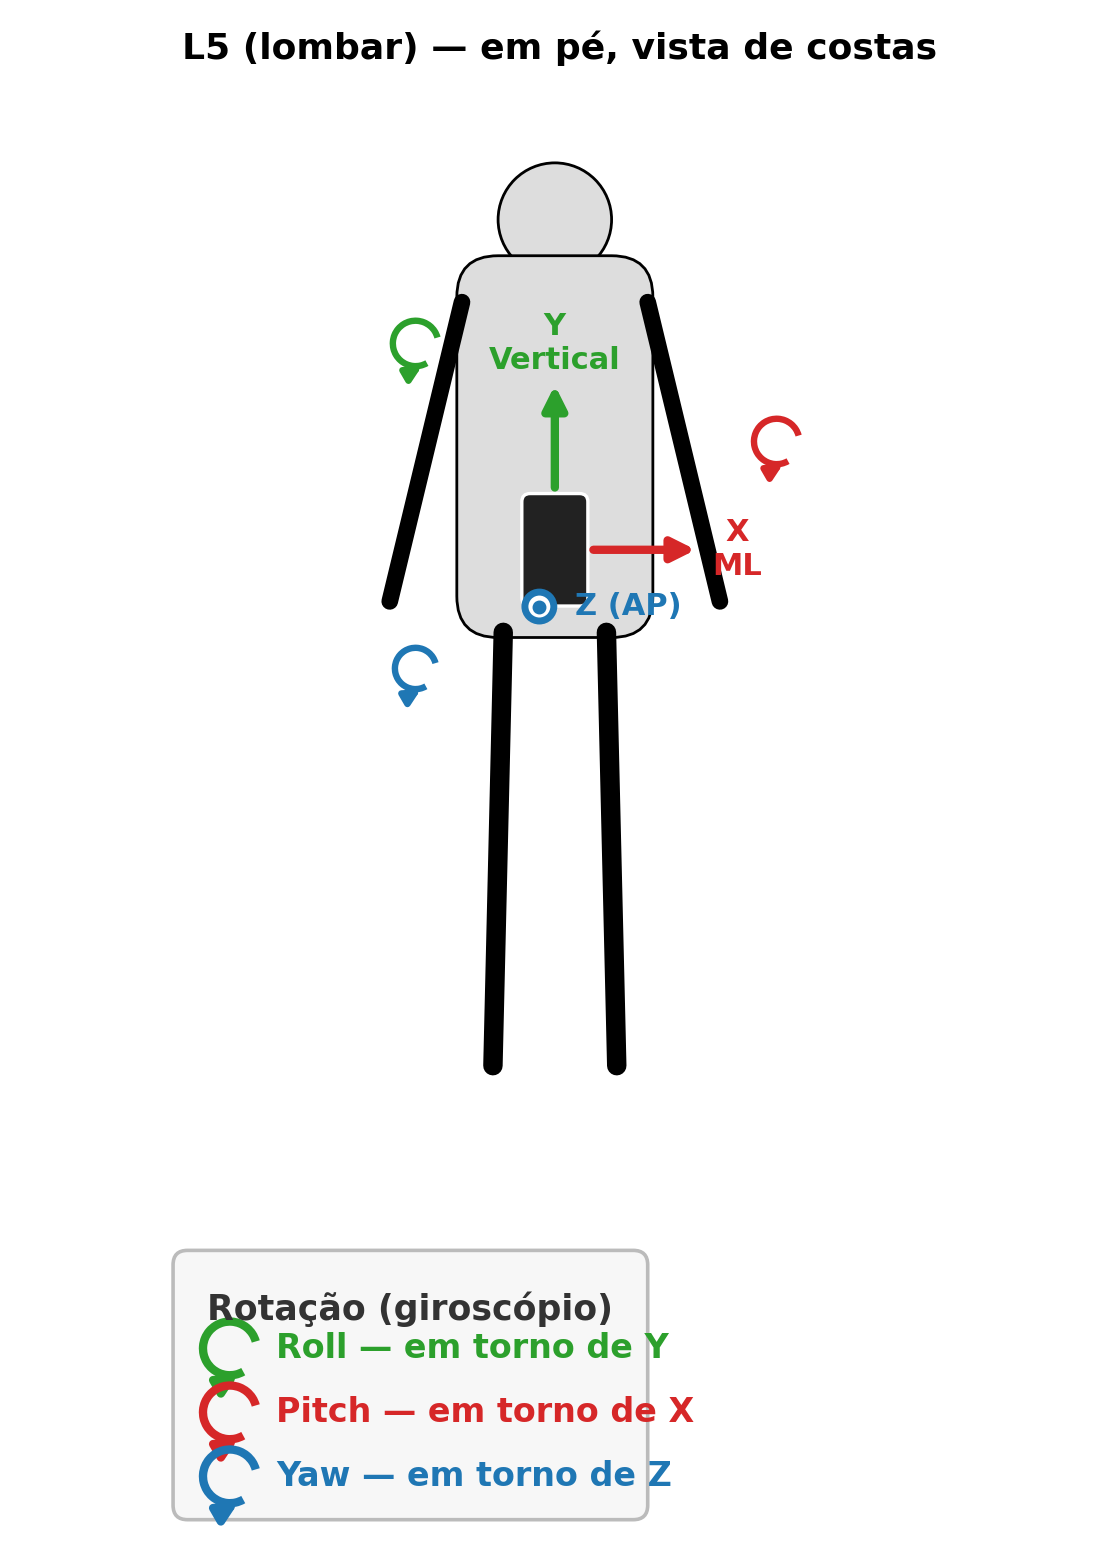
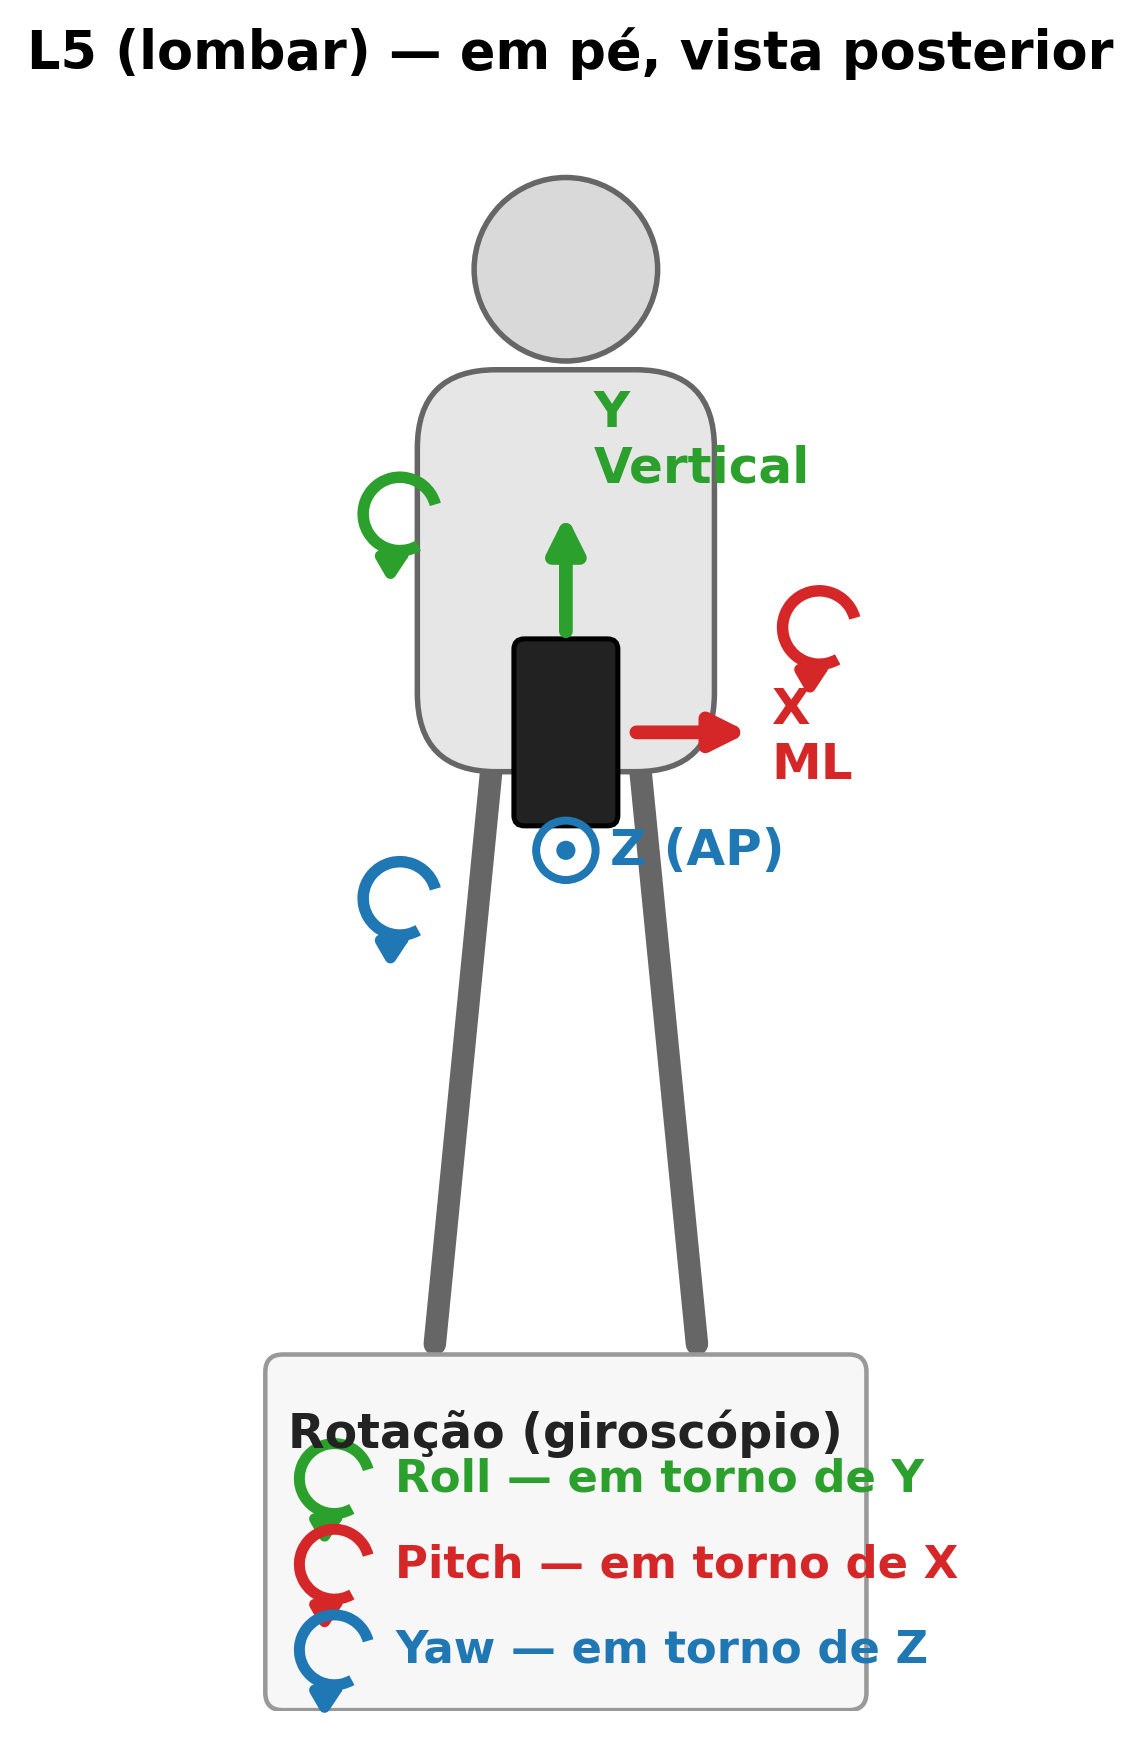
Diagramas de orientacao maiores (desenho e letras), divisao de fases nos graficos de resultante

Changed region(s): [[0.125, 0.0923, 0.8438, 0.9846], [0.4062, 0.0, 0.9688, 0.0615], [0.0312, 0.0, 0.375, 0.0615]]

diff --git a/app.py b/app.py
@@ -706,6 +706,40 @@ def ensemble_mean_std(grp, axis):
     return arr.mean(axis=0), arr.std(axis=0)
 
 
+# Divisão de fases (platô/descida/subida) para os gráficos de média — como cada
+# trial normaliza o próprio ciclo (0–1) mas a duração de cada fase varia um pouco
+# de trial a trial, usamos a média das frações de cada fase entre os trials para
+# desenhar uma única divisão representativa em todos os gráficos de resultante.
+def average_phase_fracs():
+    d_fracs, v_fracs = [], []
+    for trial_idx in range(1, n_trials + 1):
+        cycle_start, d_start, v_trial, cycle_end = trial_bounds(trial_idx)
+        span = cycle_end - cycle_start
+        if span <= 0:
+            continue
+        d_fracs.append((d_start - cycle_start) / span)
+        v_fracs.append((v_trial - cycle_start) / span)
+    if not d_fracs:
+        return 0.0, 0.5
+    return float(np.mean(d_fracs)), float(np.mean(v_fracs))
+
+
+AVG_D_FRAC, AVG_V_FRAC = average_phase_fracs()
+
+
+def add_avg_phase_shading(fig, row, col):
+    if AVG_D_FRAC > 0:
+        fig.add_vrect(x0=0, x1=AVG_D_FRAC, fillcolor=PLATEAU_COLOR, line_width=0, layer="below", row=row, col=col)
+    fig.add_vrect(x0=AVG_D_FRAC, x1=AVG_V_FRAC, fillcolor=DESCIDA_COLOR, line_width=0, layer="below", row=row, col=col)
+    fig.add_vrect(x0=AVG_V_FRAC, x1=1.0, fillcolor=SUBIDA_COLOR, line_width=0, layer="below", row=row, col=col)
+
+
+def add_avg_event_lines(fig, row, col):
+    fig.add_vline(x=AVG_D_FRAC, line_dash="dash", line_color="#1f77b4", opacity=0.9, row=row, col=col)
+    fig.add_vline(x=AVG_V_FRAC, line_dash="dot", line_color="orange", opacity=0.9, row=row, col=col)
+    fig.add_vline(x=1.0, line_dash="dash", line_color="#2ca02c", opacity=0.9, row=row, col=col)
+
+
 # Layout 2 linhas x 3 colunas: Velocidade Angular (GYR) embaixo de Velocidade,
 # Aceleração Linear (ACC) embaixo de Aceleração. Deslocamento não tem par no IMU.
 AVG_GRID = [
@@ -741,6 +775,7 @@ for row_i, row in enumerate(AVG_GRID, start=1):
             continue
         label, grp, unit = cell
         is_kinem = grp.startswith("Cinemática")
+        has_trace = False
         for axis in AXES:
             mean_y, std_y = ensemble_mean_std(grp, axis)
             if mean_y is None:
@@ -766,6 +801,11 @@ for row_i, row in enumerate(AVG_GRID, start=1):
                 ),
                 row=row_i, col=col_i,
             )
+            has_trace = True
+        if has_trace:
+            # IMPORTANTE: o traço precisa existir ANTES do add_vrect/add_vline com row/col.
+            add_avg_phase_shading(fig_avg, row_i, col_i)
+            add_avg_event_lines(fig_avg, row_i, col_i)
         fig_avg.update_yaxes(title_text=f"{label} ({unit})", row=row_i, col=col_i)
 
 fig_avg.update_xaxes(showgrid=False, range=[0, 1], title_text="Fração do ciclo (0–1)")